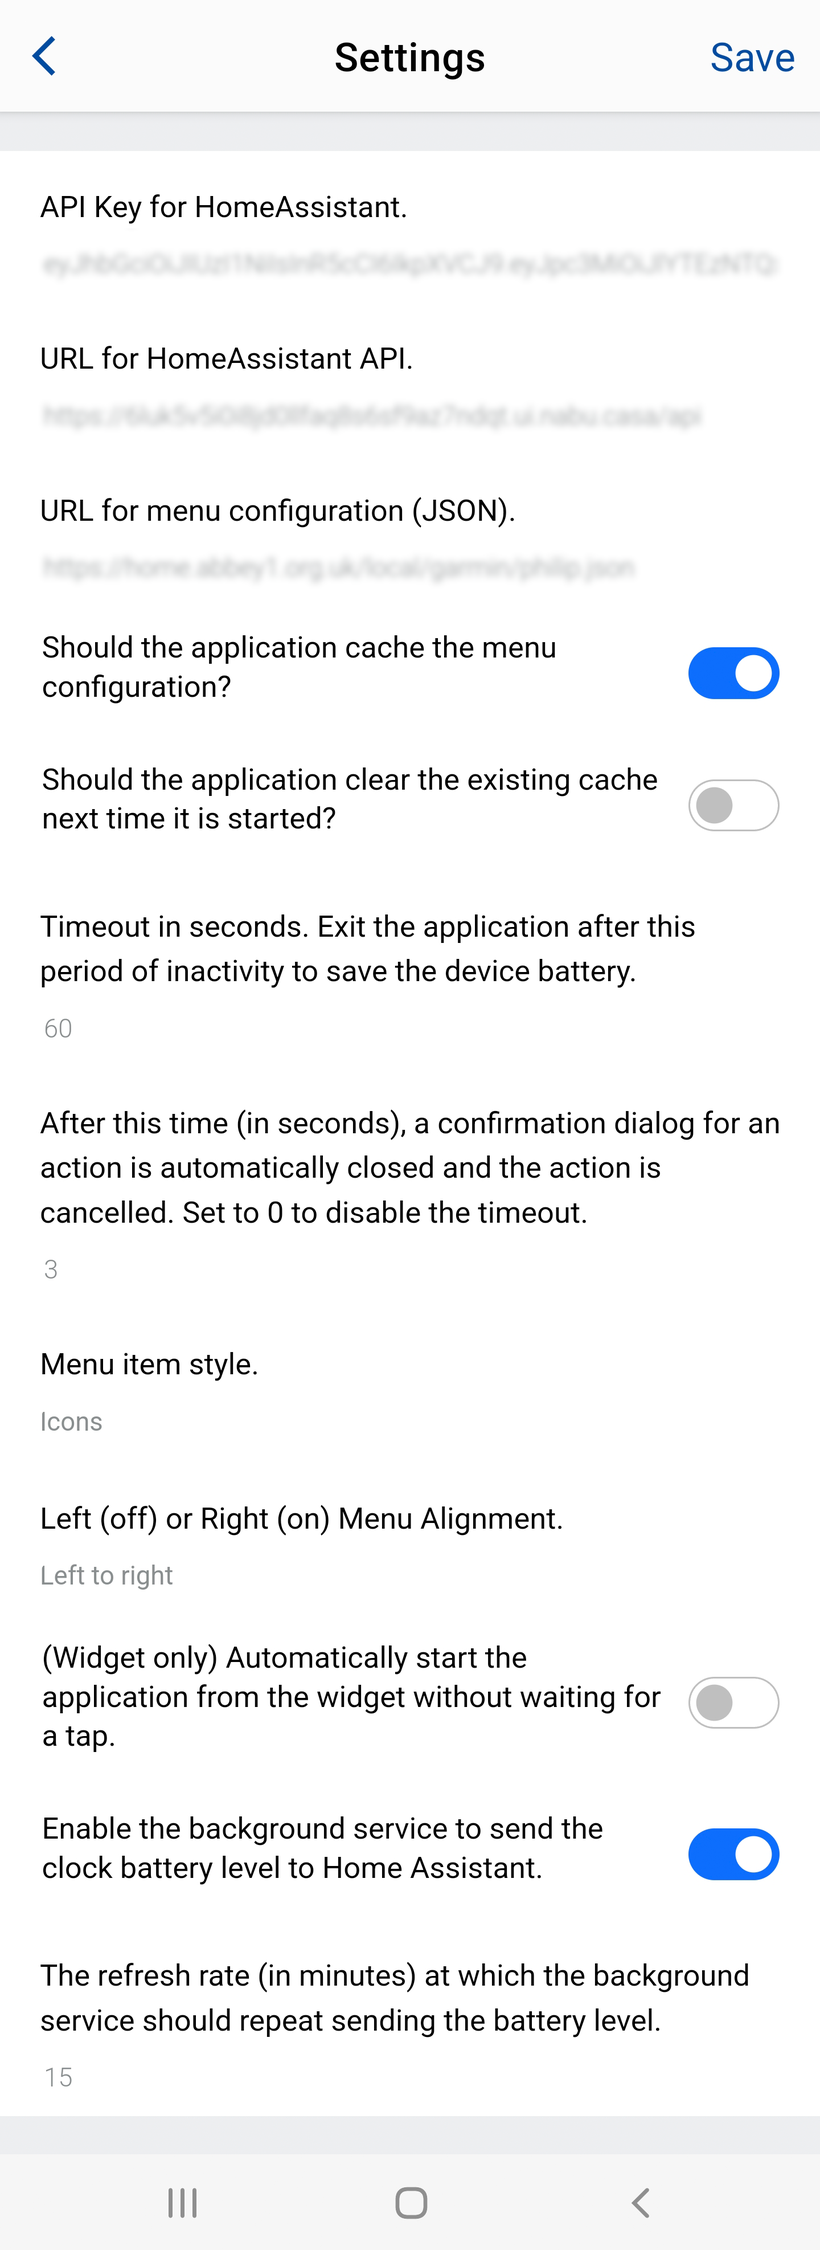
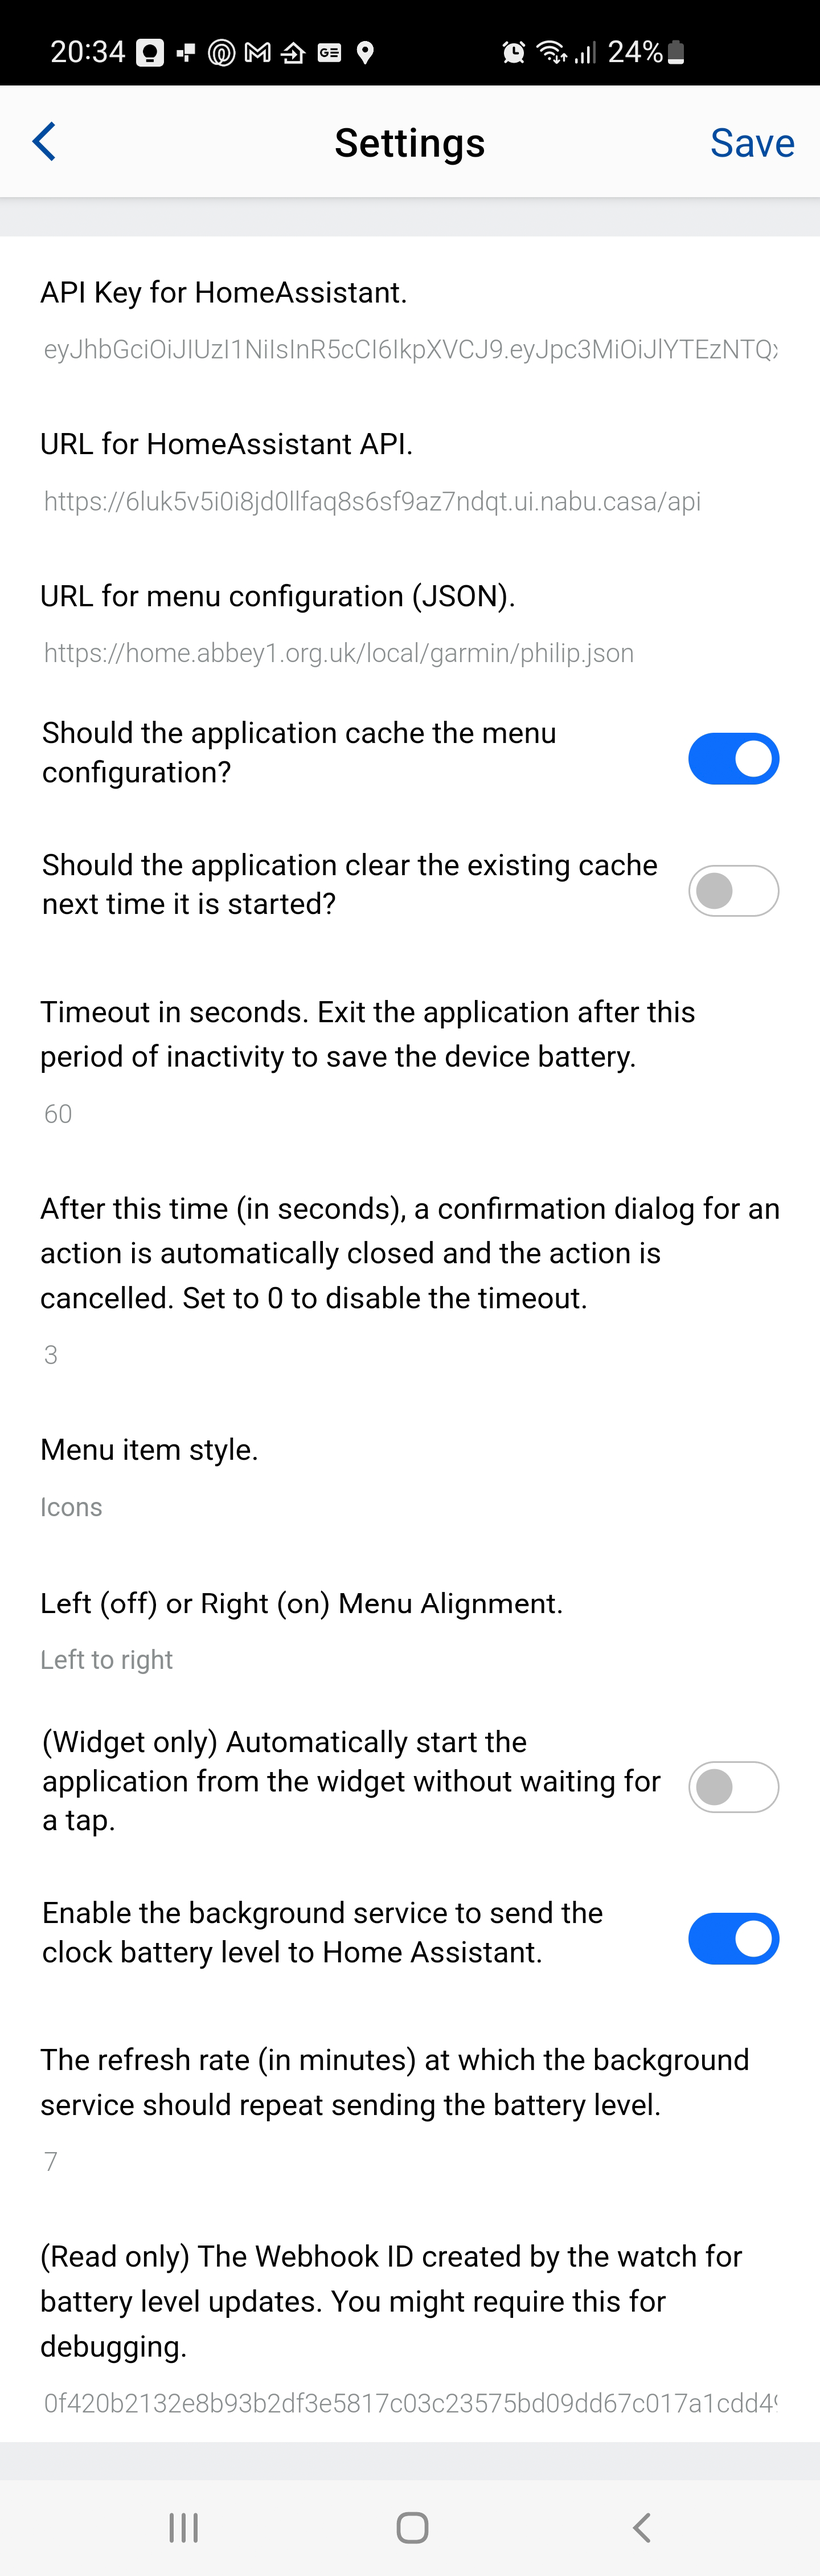
Updated settings documentation

diff --git a/README.md b/README.md
@@ -231,7 +231,7 @@ There is a toggle setting for "text alignment" and provides finer adjustment for
 
 Another toggle setting for the **Widget version only** allows the user to select a non-standard user interface behaviour. As soon as the menu is retrieved the widget view is replaced by the menu without waiting for a user selection. This has been included as requested by a user, but defaults to off which retains the expected user interactions.
 
-Finally you may enable a background service to report the battery level to your Home Assistant. This is not available over Bluetooth like with other Bluetooth devices as Garmin did not implement it. This is more complicated than the rest of the application to [set up](#battery-level-reporting).
+Finally you may enable a background service to report the battery level to your Home Assistant. This is not available over Bluetooth like with other Bluetooth devices as Garmin did not implement it. See the [set up instructions](#battery-level-reporting). the last field here is readonly and allows the user to copy & paste the Webhook ID setup by the application when required for debug.
 
 ## Tap Item Response
 
@@ -278,7 +278,7 @@ The `id` attribute values are taken from the same names used in [`strings.xml`](
 
 We've had [a report](https://github.com/house-of-abbey/GarminHomeAssistant/issues/39) that this feature does not work without **administrator priviledges**. We've reviewed possible fixes and come up short. We are unable to fix this at present but invite those skilled in the art of Home Assistant to suggest a solution to us!
 
-The application and widget both now include a background service to report your watch's battery level and charging status. This requires [significant setup](BatteryReporting.md) via YAML in Home Assistant to work. This is not for the feint hearted! We are keen to received improvements, but are reluctant to provide much in the way of support. The Home Assistant community, in particular the posts on the forum at [Bluetooth Battery Levels (Android)](https://community.home-assistant.io/t/bluetooth-battery-levels-android/661525), are your best source of support for this feature. We do however offer this [trouble shooting](Troubleshooting.md#watch-battery-level-reporting) guide.
+The application and widget both now include a background service to report your watch's battery level and charging status. This requires some [setup](BatteryReporting.md) via YAML in Home Assistant to display the transmitted value. We offer this [trouble shooting](Troubleshooting.md#watch-battery-level-reporting) guide.
 
 ## Version History
 
